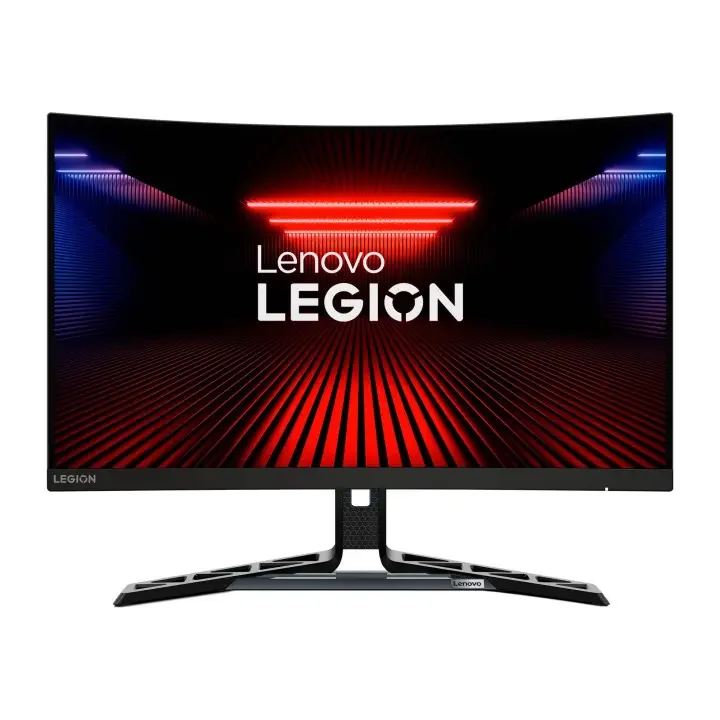
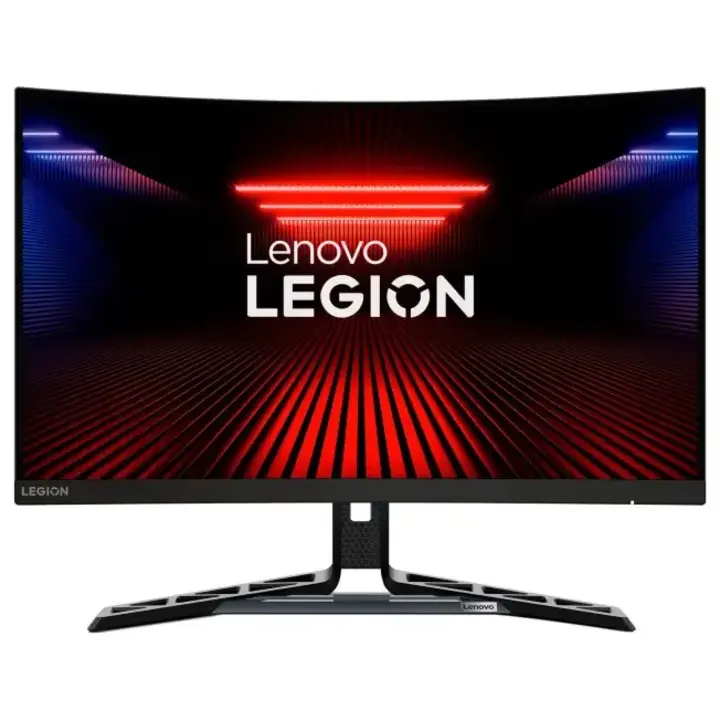
Enlarge monitor product photos

diff --git a/PROJECT_STATUS.md b/PROJECT_STATUS.md
@@ -1,6 +1,20 @@
 # PROJECT_STATUS.md — АКС current state
 
-Last updated: 2026-11-07
+Last updated: 2026-11-08
+
+## Дополнительное приближение фотографий всех мониторов (2026-11-08)
+
+- Проверены все 26 записей категории «Мониторы»: 24 товара имеют локальные фотографии, `monitors-2` и `monitors-25` остаются штатными заглушками, потому что подключённого WebP у них нет.
+- Дополнительно приближены все 24 существующих изображения непосредственно в WebP. В большинстве файлов визуальный масштаб монитора увеличен примерно на 11–15%; для кадров, где корпус уже почти доходил до границы, увеличение ограничено безопасным пределом, чтобы не обрезать экран, корпус или подставку.
+- Для каждого изображения сохранены исходные размеры холста, пропорции устройства, угол, цвета, содержимое экранов и центрирование. Белый фон `#FFFFFF` сохранён; новые белые прямоугольники, растяжение и обрезка устройств не добавлялись.
+- Пути `image/images` в `products.json`, карточки `rgw_page_monitors.html` и универсальная галерея `product.html`/ `product.js` не изменялись. CSS, размеры карточек, фильтры, сортировка, hover-анимация и другие категории не затрагивались.
+
+### Проверки этапа
+
+- Проверены все 24 новых WebP: файлы читаются, размеры холста совпадают с исходными, углы остаются белыми, изображения непустые.
+- Визуально проверены все 24 монитора: полностью видны экраны, рамки, корпуса, стойки и подставки; пропорции не изменены.
+- Проверены локальные пути всех 24 фотографий в `products.json` и `rgw_page_monitors.html`; количество товаров и две штатные заглушки не изменились.
+- Проверены `product.html` и `product.js`: галерея продолжает использовать те же локальные `main.webp`; изменений в HTML/JS нет.
 
 ## Исправление фотографий наушников и удаление старой иконки Atax (2026-11-07)
 
